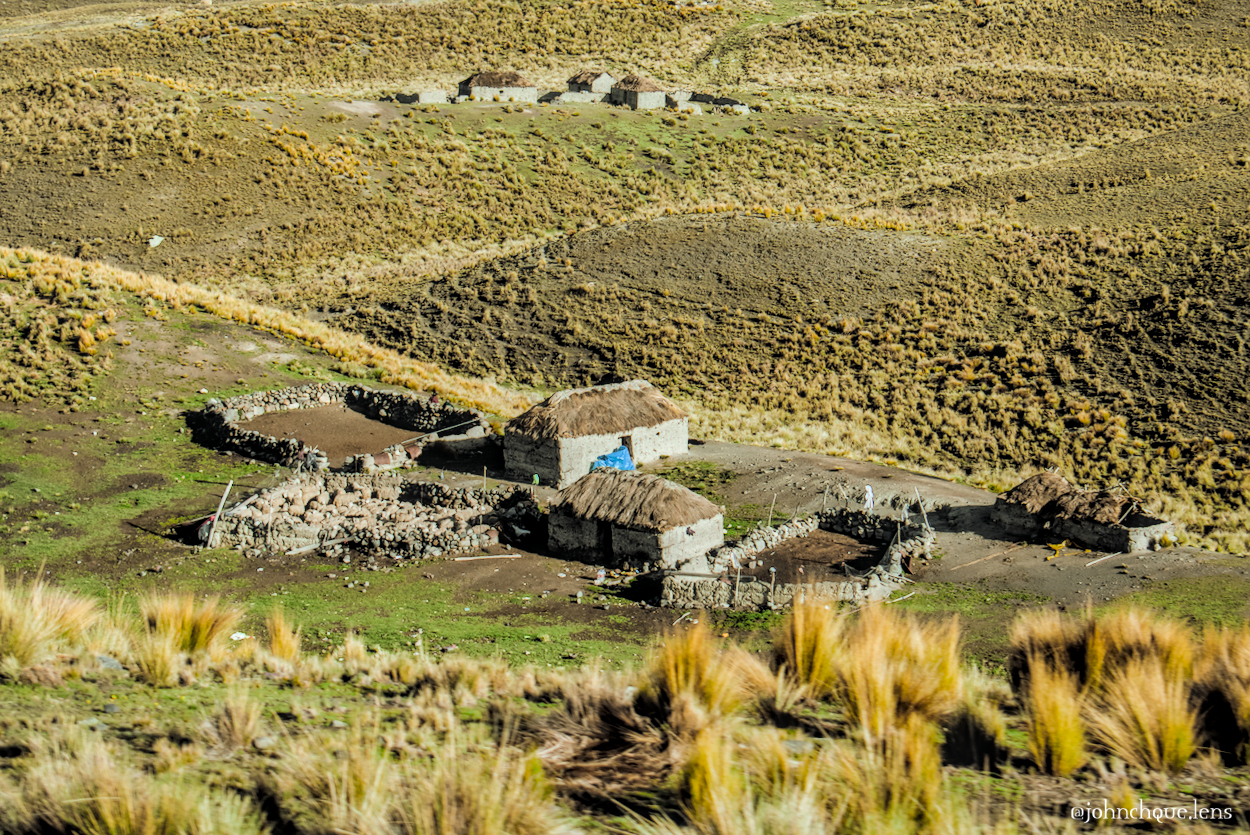
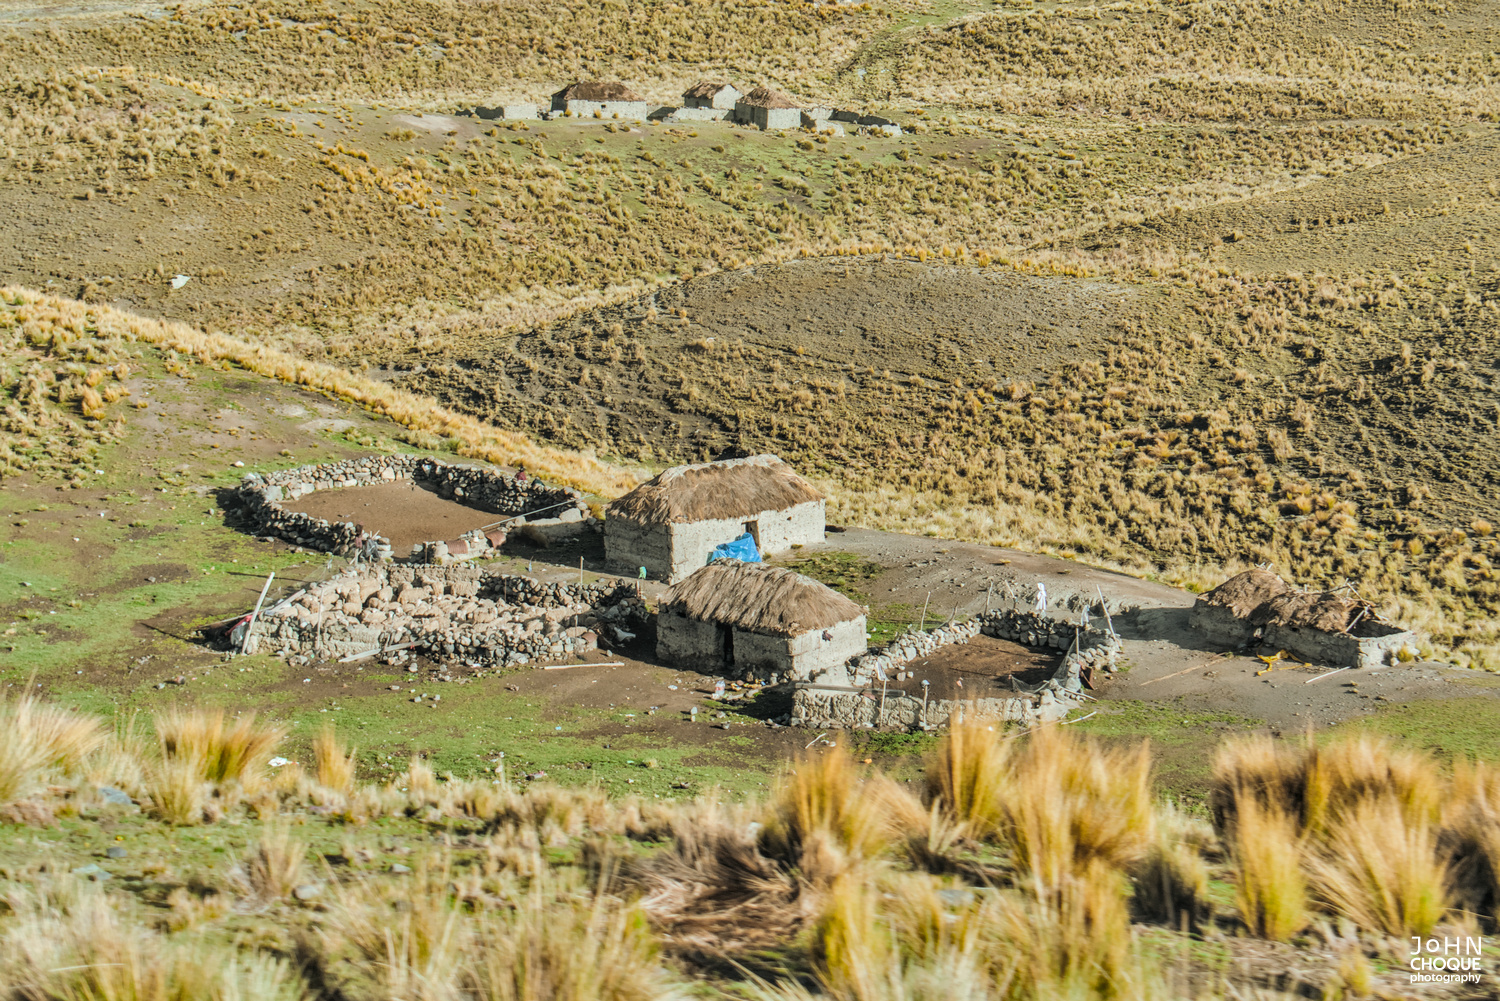
Updating LPZ pictures.

diff --git a/portfolio/photography/lapaz.html b/portfolio/photography/lapaz.html
@@ -18,6 +18,36 @@ order: 302
 				<p class="p-large">Landscape.</p>
 			</div>
 			<div class="row justify-content-center">
+				<div class="col-12 col-md-6 mb-4">
+					<p>
+						Con tu mirar soñé en mis noches de triste amor<br>
+						y el tiempo que se fue lloré en mi alma su cruel dolor.<br>
+						Por eso pienso en ti con nostalgias del dulce ayer<br>
+						Y en esas horas sufro la inmensa angustia de mi querer. (bis)<br>
+
+						Qué amargura de sentirse así<br>
+						Alejado de tu corazón<br>
+						Recordando lo que yo escribí<br>
+						A solas con tu nombre para mi canción. (bis)<br>
+
+						Pero debes volver a mí con ese tu mirar<br>
+						Y con tus rojos labios que guardan besos que yo te di. (bis)<br>
+
+						Qué amargura de sentirse así<br>
+						Alejado de tu corazón<br>
+						Recordando lo que yo escribí<br>
+						A solas con tu nombre para mi canción. (bis)<br>
+
+						Pero debes volver a mí con ese tu mirar<br>
+						Y con tus rojos labios que guardan besos que yo te di.<br>
+						Diverso - Pensando en ti
+					</p>
+				</div>
+			</div>
+			<div class="row justify-content-center">
+				{% include image.html file="/assets/images/portfolio_photography/2023_lapaz/lapaz_mountain.jpg" class="col-12 mb-4" %}
+			</div>
+			<div class="row justify-content-center">
 				{% include image.html file="/assets/images/portfolio_photography/2023_lapaz/lapaz_landscape_1.jpg" class="col-12 col-md-6 mb-4" %}
 				{% include image.html file="/assets/images/portfolio_photography/2023_lapaz/lapaz_landscape_2.jpg" class="col-12 col-md-6 mb-4" %}
 			</div>
@@ -47,7 +77,6 @@ order: 302
 						Diverso - Pensando en ti
 					</p>
 				</div>
-				{% include image.html file="/assets/images/portfolio_photography/2023_lapaz/lapaz_mountain.jpg" class="col-12 col-md-6 mb-4" %}
 			</div>
 			<div class="row justify-content-center">
 				{% include image.html file="/assets/images/portfolio_photography/2023_lapaz/lapaz_houses_1.jpg" class="col-12 col-md-4 mb-4" %}

diff --git a/_includes/image.html b/_includes/image.html
@@ -3,6 +3,6 @@
 
 <a data-fslightbox href="{{ include.file | relative_url }}" title="{{ filename }}" class="{{ include.class }}">
     <img class="img-fluid"
-        src="//images.weserv.nl/?url={{ site.url | replace: 'http://','' | replace: 'https://','' }}{{ include.file | relative_url }}&w=750&h=750&output=jpg&q=80"
+        src="//images.weserv.nl/?url={{ site.url | replace: 'http://','' | replace: 'https://','' }}{{ include.file | relative_url }}&output=jpg&q=75"
         alt="{{ filename }}" title="{{ filename }}" />
 </a>
